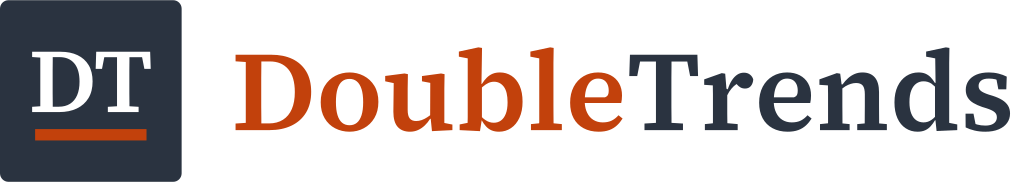
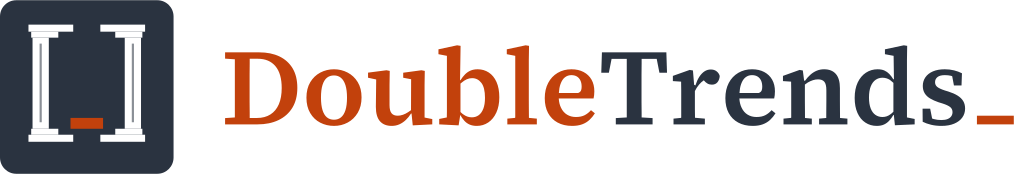
Brand: the portico mark and the cursor-bar wordmark
The revamp's "DT" tile dropped every trace of the original identity.
The new mark keeps the original's silhouette: the [_] bracket pair is
redrawn as two classical pilasters (abacus and plinth reach inward like
the bracket's arms) on the navy tile, with the rust cursor bar as the
portico's threshold. The wordmark keeps the serif "Double" (rust) +
"Trends" (navy) and regains the original's rust cursor bar.

- build-brand.js: markSvg draws the portico on a 64-unit grid (left
  half mirrored); the wordmark adds the cursor bar after "Trends".
  All public/brand outputs regenerated under their existing filenames.
- header/footer: .brand-cursor after "Trends"; the brand name no
  longer wraps in the narrow footer column

diff --git a/build-brand.js b/build-brand.js
@@ -1,11 +1,12 @@
 /**
  * build-brand.js — `npm run brand` — generates public/brand/.
  *
- * Identity in the brand's two colors: a navy plate carrying a white "DT"
- * monogram over a rust bar, and the name "DoubleTrends" split as in the
- * original wordmark ("Double" rust, "Trends" navy), both set in Source Serif
- * 4 Semibold and converted to outlines (opentype.js),
- * so the SVGs render identically everywhere with no font dependency. The OG
+ * Identity in the brand's two colors: the portico (the original [_] mark
+ * redrawn as two pilasters with a rust threshold) on a navy tile, and the
+ * name "DoubleTrends" split as in the original wordmark ("Double" rust,
+ * "Trends" navy, rust cursor bar), set in Source Serif 4 Semibold and
+ * converted to outlines (opentype.js), so the SVGs render identically
+ * everywhere with no font dependency. The OG
  * image carries the real regime ribbon (1996 → latest), drawn from
  * src/data/regimes-daily.json — the house exhibit, not decoration.
  *
@@ -67,21 +68,25 @@ function outline(font, text, size, x = 0, y = 0, tracking = 0) {
   return { d: paths.join(''), width: cursor - x - tracking, top: top - y, bottom: bottom - y };
 }
 
-// ─── Mark: plate + DT ───────────────────────────────────────────────────────
+// ─── Mark: the portico ──────────────────────────────────────────────────────
+// The original mark was a bracket pair holding a rust cursor bar: [_]. Here
+// each bracket is a classical pilaster: abacus and plinth reach inward like
+// the bracket's arms; capital, shaft and base stand between. The rust bar
+// becomes the threshold of the portico. Drawn on a 64-unit grid, left half
+// mirrored, so the mark is exactly symmetric.
 function markSvg({ plate, ink, size = 64 }) {
-  const k = size / 64;
-  const fs_ = 32 * k;
-  const t = outline(SERIF, 'DT', fs_, 0, 0, -1 * k);
-  const capH = -t.top;                         // glyph top is negative (y-up)
-  const x = (size - t.width) / 2;
-  const y = size * 0.45 + capH / 2;            // sits above centre to leave room for the bar
-  const g = outline(SERIF, 'DT', fs_, x, y, -1 * k);
-  // Rust bar under the letters — the accent of the original wordmark's underscore.
-  const barW = Math.max(t.width * 0.9, 30 * k), barH = 4 * k;
-  return `<svg xmlns="http://www.w3.org/2000/svg" viewBox="0 0 ${size} ${size}" width="${size}" height="${size}">
-<rect width="${size}" height="${size}" rx="${3 * k}" fill="${plate}"/>
-<path d="${g.d}" fill="${ink}"/>
-<rect x="${((size - barW) / 2).toFixed(2)}" y="${(y + 6 * k).toFixed(2)}" width="${barW.toFixed(2)}" height="${barH.toFixed(2)}" fill="${RUST}"/>
+  const half = `<rect x="10.5" y="9" width="16.5" height="2.6"/>
+<rect x="11.5" y="11.6" width="10" height="2.2"/>
+<rect x="12" y="13.8" width="6" height="33.6"/>
+<rect x="11.5" y="47.4" width="10" height="2.2"/>
+<rect x="10.5" y="49.6" width="16.5" height="2.6"/>`;
+  // A single flute down each shaft, cut in the plate colour.
+  const flute = `<rect x="14.6" y="16" width="0.8" height="29" fill="${plate}" fill-opacity="0.55"/>`;
+  return `<svg xmlns="http://www.w3.org/2000/svg" viewBox="0 0 64 64" width="${size}" height="${size}">
+<rect width="64" height="64" rx="6" fill="${plate}"/>
+<g fill="${ink}">${half}<g transform="translate(64 0) scale(-1 1)">${half}</g></g>
+${flute}<g transform="translate(64 0) scale(-1 1)">${flute}</g>
+<rect x="26" y="43.4" width="12" height="4" fill="${RUST}"/>
 </svg>`;
 }
 
@@ -97,12 +102,15 @@ function wordmarkSvg({ dark = false } = {}) {
   const first = outline(SERIF, 'Double', size, mark + gap, y);
   const kernET = (SERIF.getKerningValue(SERIF.charToGlyph('e'), SERIF.charToGlyph('T')) / SERIF.unitsPerEm) * size;
   const second = outline(SERIF, 'Trends', size, mark + gap + first.width + kernET, y);
-  const W = Math.ceil(mark + gap + first.width + kernET + second.width + 4);
-  const inner = markSvg({ plate, ink: plateInk, size: mark }).replace(/^<svg[^>]*>|<\/svg>$/g, '');
+  // The cursor bar of the original wordmark, sitting on the baseline after "Trends".
+  const barX = mark + gap + first.width + kernET + second.width + 0.07 * size, barW = 0.34 * size, barH = 0.08 * size;
+  const W = Math.ceil(barX + barW + 4);
+  const inner = `<g transform="scale(${mark / 64})">${markSvg({ plate, ink: plateInk }).replace(/^<svg[^>]*>|<\/svg>$/g, '')}</g>`;
   return { svg: `<svg xmlns="http://www.w3.org/2000/svg" viewBox="0 0 ${W} ${H}" width="${W}" height="${H}">
 ${inner}
 <path d="${first.d}" fill="${RUST}"/>
 <path d="${second.d}" fill="${ink}"/>
+<rect x="${barX.toFixed(2)}" y="${(y - barH).toFixed(2)}" width="${barW.toFixed(2)}" height="${barH.toFixed(2)}" fill="${RUST}"/>
 </svg>`, W, H };
 }
 

diff --git a/src/styles/components/chrome.css b/src/styles/components/chrome.css
@@ -19,7 +19,9 @@
 .brand { display: inline-flex; align-items: center; gap: 0.7rem; text-decoration: none; color: var(--ink); }
 .brand-mark { width: 2.125rem; height: 2.125rem; flex: none; }
 .brand-accent { color: var(--accent); }
-.brand-name { font-family: var(--font-serif); font-weight: 600; font-size: 1.4375rem; letter-spacing: -0.005em; line-height: 1; }
+/* The cursor bar of the original wordmark, on the baseline after "Trends". */
+.brand-cursor { display: inline-block; width: 0.34em; height: 0.08em; margin-left: 0.07em; background: var(--accent); }
+.brand-name { font-family: var(--font-serif); font-weight: 600; font-size: 1.4375rem; letter-spacing: -0.005em; line-height: 1; white-space: nowrap; }
 .brand-name small { display: block; margin-top: 0.3rem; font-family: var(--font-sans); font-weight: 500; font-size: 0.6875rem; letter-spacing: 0.1em; text-transform: uppercase; color: var(--muted); }
 
 .site-nav ul { list-style: none; margin: 0; padding: 0; display: flex; align-items: center; gap: 0.25rem; }

diff --git a/src/_partials/footer.html b/src/_partials/footer.html
@@ -4,7 +4,7 @@
       <div class="site-footer-brand">
         <a class="brand" href="{{ROOT}}index.html" aria-label="DoubleTrends — home">
           <img class="brand-mark" src="{{ROOT}}public/brand/logo-on-dark.svg" alt="" width="34" height="34" />
-          <span class="brand-name"><span class="brand-accent">Double</span>Trends<small>Market Regime Research</small></span>
+          <span class="brand-name"><span class="brand-accent">Double</span>Trends<span class="brand-cursor" aria-hidden="true"></span><small>Market Regime Research</small></span>
         </a>
         <p class="site-footer-about">An independent quantitative research firm. DoubleTrends studies market regimes and drawdowns, publishes its methods and records in full, and accepts no payments from brokers or exchanges.</p>
       </div>

diff --git a/src/_partials/header.html b/src/_partials/header.html
@@ -14,7 +14,7 @@
   <div class="wrap">
     <a class="brand" href="{{ROOT}}index.html" aria-label="DoubleTrends — home">
       <img class="brand-mark" src="{{ROOT}}public/brand/logo.svg" alt="" width="34" height="34" />
-      <span class="brand-name"><span class="brand-accent">Double</span>Trends<small>Market Regime Research</small></span>
+      <span class="brand-name"><span class="brand-accent">Double</span>Trends<span class="brand-cursor" aria-hidden="true"></span><small>Market Regime Research</small></span>
     </a>
     <details class="nav-toggle"><summary aria-label="Menu">Menu</summary></details>
     <nav class="site-nav" aria-label="Primary">
